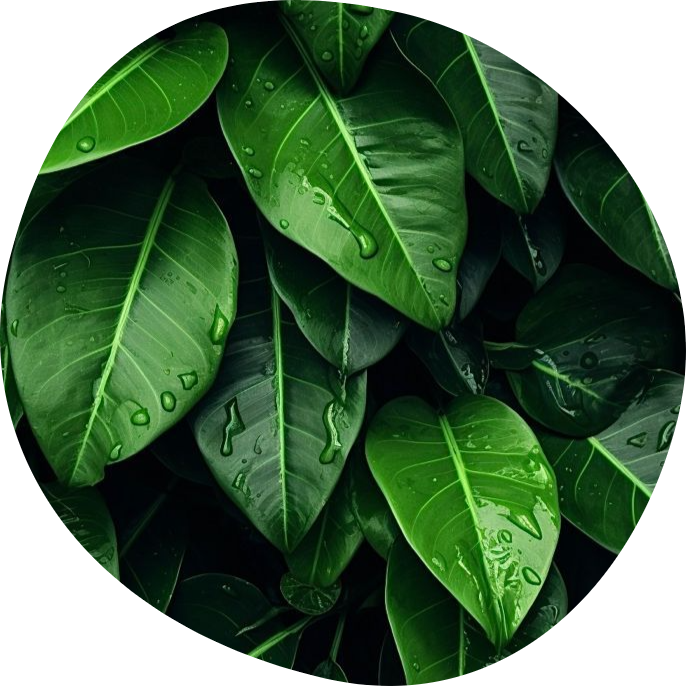
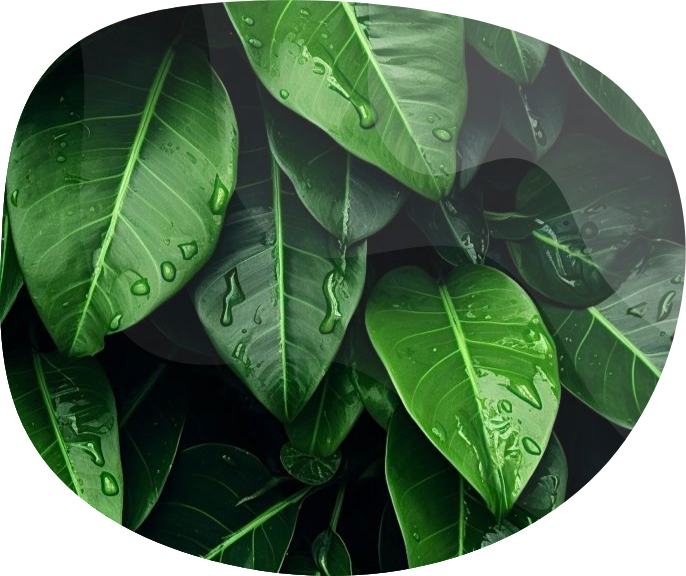
image shape changed III

diff --git a/src/app/components/loginPage/login.tsx b/src/app/components/loginPage/login.tsx
@@ -6,8 +6,8 @@ const LogInPage: React.FC = () => {
     <div className="flex flex-col items-center font-sahel">
       <div className="image-containerII">
         <Image
-          width={1000}
-          height={1000}
+          width={500}
+          height={500}
           src="/loginPic.png"
           alt="Full Screen Image"
           className="-z-20"
